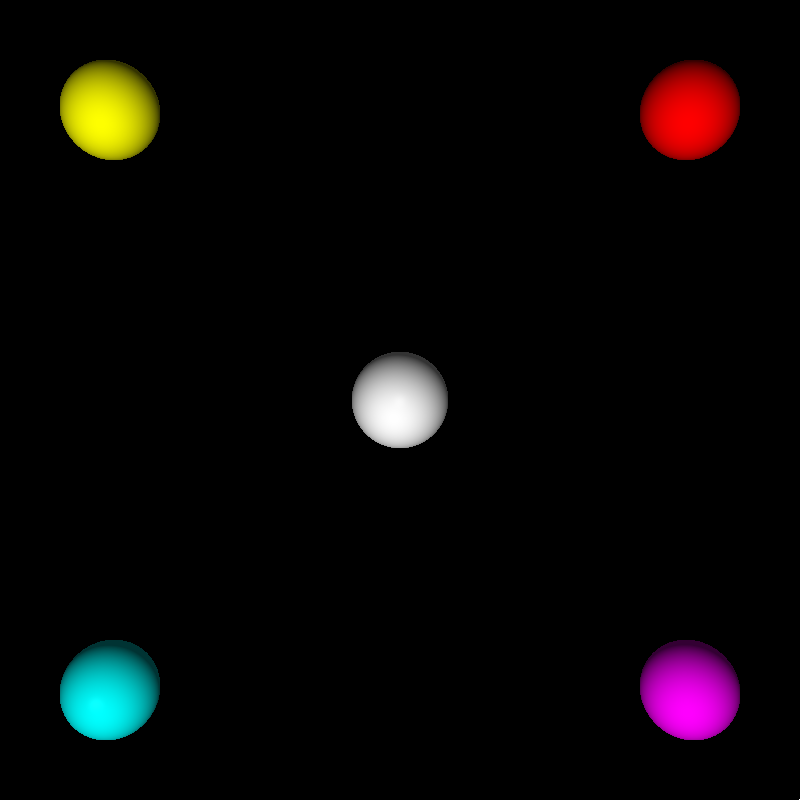
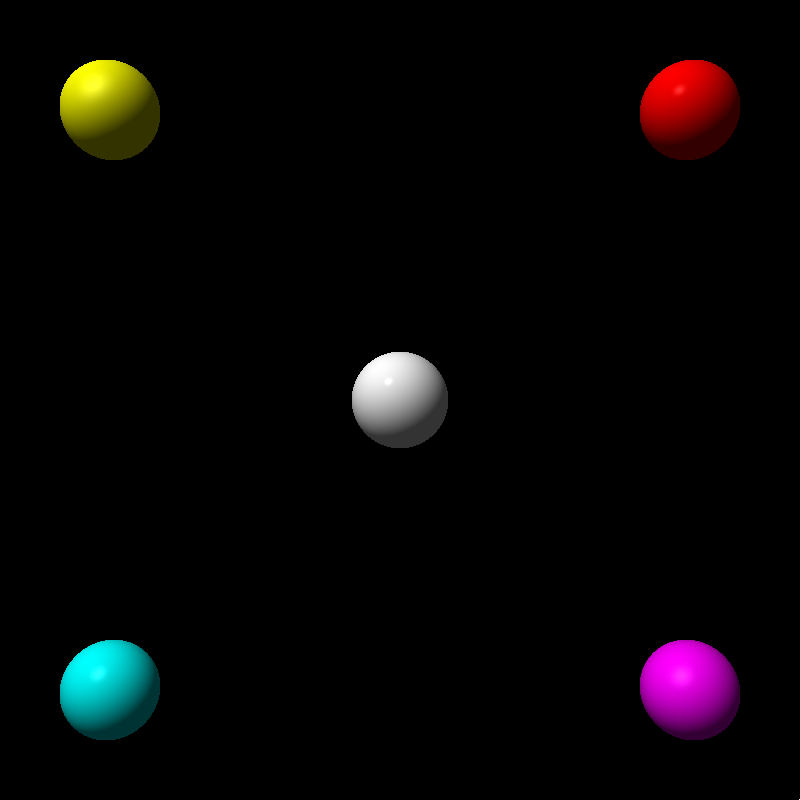
Fixed phong reflection calculation

diff --git a/Sources/Raytracer.swift b/Sources/Raytracer.swift
@@ -39,42 +39,20 @@ class Raytracer {
 
         // Find hit object and distance
         for obj in scene.objects {
-            if obj.intersect(ray: ray, t: &t) && (object == nil || t < min_t) {
+            if obj.intersect(ray: ray, t: &t) != 0 && (object == nil || t < min_t) {
                 min_t = t
                 object = obj
             }
         }
 
         guard let hitObject = object else {
-            return Color(gray: 1)
+            return Color(gray: 0)
         }
-        let material = hitObject.material           // the hit objects material
-        let matColor = material.color               // material color
-        let ka = material.ambient                   // phong: ambient factor
-        let kd = material.diffuse                   // phong: diffuse factor
-        let ks = material.specular                  // phong: specular factor
-        let phong = material.phong                  // phong: shiny exponent
 
         let hit = ray.at(t: min_t)                  // the hit point
-        let N = hitObject.normal(P: hit)            // the normal
         let V = -ray.direction                      // the view vector
 
-        var color = matColor                        // initially use the material color
-
-        /*
-         * Phong Lighting Model
-         */
-
-        color *= ka                                                 // ambient component
-
-        for light in scene.lights {
-            let L = (light.center - hit).normalized()               // vector from the hit point to the light
-            let R = (2.0 * N * L * N) - L                           // reflection vector for phong model
-
-            color += light.color * matColor * kd * max(0.0, L.dot(v: N)) // phong: diffuse component
-            color += light.color * ks * pow(max(0.0, V.dot(v: R)), phong) // phong: specular component
-        }
-        return color
+        return phongColor(for: hitObject, hit: hit, V: V)
     }
 
     /**
@@ -98,13 +76,13 @@ class Raytracer {
     }
 
     /**
-     * Setup Glassner's Simple Viewing Geometry (https://graphics.stanford.edu/courses/cs348b-98/gg/viewgeom.html)
+     * Glassner's Simple Viewing Geometry (https://graphics.stanford.edu/courses/cs348b-98/gg/viewgeom.html)
      */
 
     private func setupSimpleViewingGeometry(forWidth width: UInt, height: UInt) {
         let aspect = Double(scene.width) / Double(scene.height)
-        let A = scene.gaze.cross(v: scene.up)
-        let B = A.cross(v: scene.gaze)
+        let A = scene.gaze.cross(scene.up)
+        let B = A.cross(scene.gaze)
         let phiRad = scene.phi * 0.5 * Constants.DEG_2_RAD
         let thetaRad = atan( tan(phiRad) / aspect)
         glassnerH = A.normalized() * scene.gaze.length() * tan(phiRad)
@@ -112,14 +90,36 @@ class Raytracer {
         glassnerMidPoint = scene.eye + scene.gaze
     }
 
-    /**
-     * Getting Glassner Pixel
-     */
-
     private func getGlassnerPixel(x: Double, y: Double) -> Point3 {
         let sx = x / Double(scene.width-1)
         let sy = y / Double(scene.height-1)
         let point = glassnerMidPoint + (2.0*sx - 1.0)*glassnerH + (2.0*sy - 1.0)*glassnerV
         return point
+    }
+
+    /**
+     * Returns a color using the Phong Reflection Model
+     */
+    private func phongColor(for hitObject: Object, hit: Point3, V: Vector3) -> Color {
+        let material = hitObject.material           // the hit objects material
+        let ka = material.ambient                   // ambient factor
+        let kd = material.diffuse                   // diffuse factor
+        let ks = material.specular                  // specular factor
+        let phong = material.phong                  // shiny exponent
+
+        let N = hitObject.normal(P: hit)            // the normal
+
+        var color = material.color * ka             // ambient component
+
+        for light in scene.lights {
+            let L = (light.center - hit).normalized()                   // hit -> light vector
+            let LN = L.dot(N)
+            let R = 2.0 * N * LN - L                                    // reflection vector
+            let VR = V.dot(R)
+
+            color += light.color * material.color * kd * max(0.0, LN)   // diffuse component
+            color += light.color * ks * pow(max(0.0, VR), phong)        // specular component
+        }
+        return color
     }
 }

diff --git a/Sources/Sphere.swift b/Sources/Sphere.swift
@@ -46,14 +46,14 @@ public struct Sphere: Object {
      * Quadratic solution for sphere ray intersection.
      *
      */
-    public func intersect(ray: Ray3, t: inout Double) -> Bool {
+    public func intersect(ray: Ray3, t: inout Double) -> Int {
         let CO = ray.origin - C                 // vector from center to origin
-        let p = 2.0 * CO.dot(v: ray.direction)  // part I for quadratic equation
-        let q = CO.dot(v: CO) - rr              // part II for quadratic equation
+        let p = 2.0 * CO.dot(ray.direction)  // part I for quadratic equation
+        let q = CO.dot(CO) - rr              // part II for quadratic equation
         let D = (p*0.5) * (p*0.5) - q           // discriminant
 
         if D < 0.0 {
-            return false                        // 0 solutions
+            return 0                        // 0 solutions
         }
 
         // distance calculation
@@ -61,16 +61,16 @@ public struct Sphere: Object {
 
         if t1 > DBL_EPSILON {                   // surely outside sphere (smallest ISP lies in ray direction)
             t = t1
-            return true
+            return 1
         }
 
         let t2 = (-p*0.5) + sqrt(D)
 
         if t2 > DBL_EPSILON {                   // surely inside sphere (second ISP lies in ray direction AND first ISP lies against ray direction)
             t = t2
-            return true
+            return -1
         }  
-        return false
+        return 0
     }
     
     public func normal(P: Point3) -> Vector3 {

diff --git a/Sources/Vector3.swift b/Sources/Vector3.swift
@@ -72,14 +72,14 @@ public struct Vector3: Equatable, JSONSerializable, CustomStringConvertible {
     /**
      * Calculates the dot product with another Vector3.
      */
-    public func dot(v: Vector3) -> Double {
+    public func dot(_ v: Vector3) -> Double {
         return dx * v.dx + dy * v.dy + dz * v.dz
     }
 
     /**
      * Calculates the cross product with another Vector3.
      */
-    public func cross(v: Vector3) -> Vector3 {
+    public func cross(_ v: Vector3) -> Vector3 {
         return Vector3(dx: dy * v.dz - dz * v.dy,
                        dy: dz * v.dx - dx + v.dz,
                        dz: dx * v.dy - dy * v.dx)
@@ -89,6 +89,12 @@ public struct Vector3: Equatable, JSONSerializable, CustomStringConvertible {
         return Point3(x: dx, y: dy, z: dz)
     }
 }
+
+public func x (v1: Vector3, v2: Vector3) -> Double {
+    return v1.dx * v2.dx + v1.dy * v2.dy + v1.dz * v2.dz
+}
+
+
 
 /**
  * Returns true if two vectors have the same element values.

diff --git a/Sources/Object.swift b/Sources/Object.swift
@@ -9,6 +9,6 @@
 public protocol Object: JSONSerializable {
     var material: Material {get set}
 
-    func intersect(ray: Ray3, t: inout Double) -> Bool
+    func intersect(ray: Ray3, t: inout Double) -> Int
     func normal(P: Point3) -> Vector3
 }
